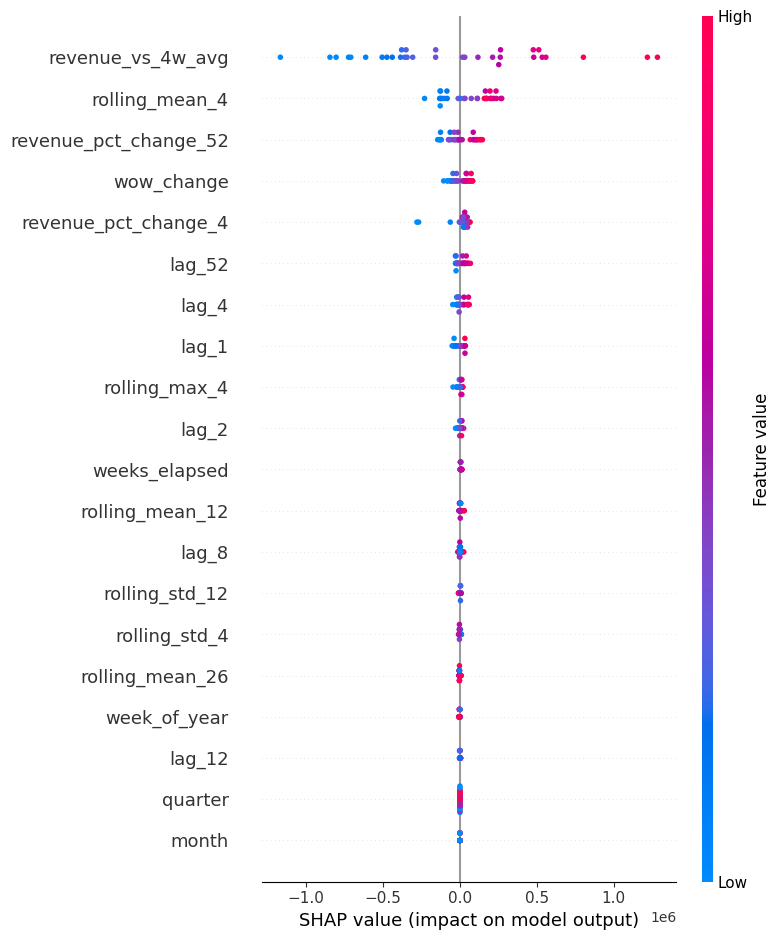
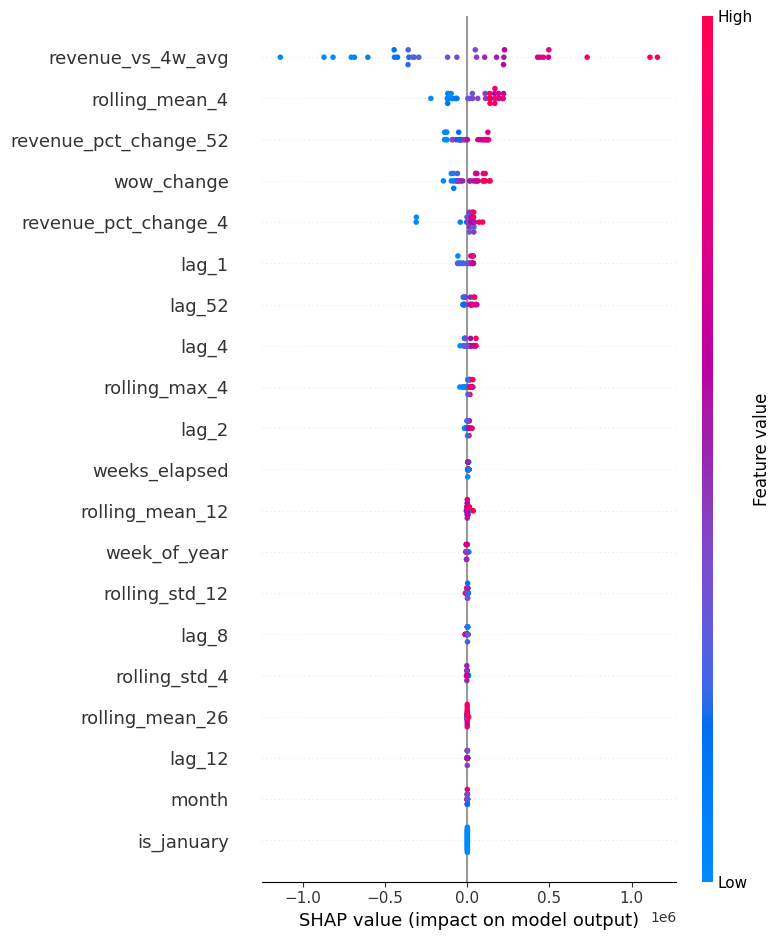
update code for the xgboost parameters

diff --git a/xgboost_model.py b/xgboost_model.py
@@ -12,12 +12,12 @@ df["week_start"] = pd.to_datetime(df["week_start"])
 
 #______defining feature columns and target__________
 feature_cols = ["lag_1", "lag_2", "lag_4", "lag_8", "lag_12", "lag_52",
-                 "rolling_mean_4", "rolling_mean_12", "rolling_mean_26",
-                 "rolling_std_4", "rolling_std_12", "rolling_max_4",
-                 "week_of_year", "month", "quarter", "is_month_end",
-                 "is_quarter_end", "is_december", "is_january",
-                 "weeks_elapsed", "wow_change", "revenue_vs_4w_avg",
-                 "revenue_pct_change_4", "revenue_pct_change_52"]
+                "rolling_mean_4", "rolling_mean_12", "rolling_mean_26",
+                "rolling_std_4", "rolling_std_12", "rolling_max_4",
+                "week_of_year", "month", "quarter", "is_month_end",
+                "is_quarter_end", "is_december", "is_january",
+                "weeks_elapsed", "wow_change", "revenue_vs_4w_avg",
+                "revenue_pct_change_4", "revenue_pct_change_52"]
 
 X = df[feature_cols]
 y = df["revenue"]
@@ -26,18 +26,18 @@ y = df["revenue"]
 train_size = int(len(df) * 0.8)
 
 X_train = X[:train_size]
-X_test = X[train_size:]
+X_test  = X[train_size:]
 y_train = y[:train_size]
-y_test = y[train_size:]
-y_test = y_test.reset_index(drop=True)
+y_test  = y[train_size:]
+y_test  = y_test.reset_index(drop=True)
 
 #______training XGBoost model with tuned parameters__________
 model = xgb.XGBRegressor(
-    n_estimators=575,
+    n_estimators=1000,
     max_depth=3,
-    learning_rate=0.03,
-    subsample=0.7,
-    colsample_bytree=0.9,
+    learning_rate=0.01,
+    subsample=0.9,
+    colsample_bytree=0.8,
     random_state=42
 )
 
@@ -47,11 +47,11 @@ model.fit(X_train, y_train)
 y_pred = model.predict(X_test)
 
 #______calculating evaluation metrics__________
-mae = mean_absolute_error(y_test, y_pred)
+mae  = mean_absolute_error(y_test, y_pred)
 rmse = np.sqrt(mean_squared_error(y_test, y_pred))
 mape = np.mean(np.abs((y_test.values - y_pred) / y_test.values)) * 100
 
-print(f"MAE: {mae:.2f}")
+print(f"MAE:  {mae:.2f}")
 print(f"RMSE: {rmse:.2f}")
 print(f"MAPE: {mape:.2f}%")
 
@@ -59,8 +59,8 @@ print(f"MAPE: {mape:.2f}%")
 test_dates = df["week_start"][train_size:].reset_index(drop=True)
 
 plt.figure(figsize=(12, 6))
-plt.plot(test_dates, y_test.values, label="Actual", color="black")
-plt.plot(test_dates, y_pred, label="XGBoost Forecast", color="blue")
+plt.plot(test_dates, y_test.values, label="Actual",           color="black")
+plt.plot(test_dates, y_pred,        label="XGBoost Forecast", color="blue")
 plt.legend()
 plt.title("XGBoost: Actual vs Predicted Revenue")
 plt.xlabel("Week")
@@ -69,10 +69,181 @@ plt.savefig("outputs/xgboost_forecast.png", bbox_inches="tight")
 plt.show()
 
 #______SHAP explainability__________
-explainer = shap.TreeExplainer(model)
+explainer   = shap.TreeExplainer(model)
 shap_values = explainer.shap_values(X_test)
 
 #______summary plot — overall feature importance__________
 shap.summary_plot(shap_values, X_test, show=False)
 plt.savefig("outputs/shap_summary.png", bbox_inches="tight")
+plt.show()
+
+#______future forecasting — recursive walk-forward__________
+
+#______load the full featured dataset__________
+full_df = pd.read_csv("data/featured_weekly_revenue.csv")
+full_df["week_start"] = pd.to_datetime(full_df["week_start"])
+
+#______keep last 52 weeks of real data as the seed window__________
+seed_window = full_df[["week_start", "revenue"]].tail(52).copy().reset_index(drop=True)
+
+#______how many weeks ahead to forecast__________
+WEEKS_AHEAD = 26  # 26 weeks = 6 months
+
+#______historical volatility — used to scale noise__________
+historical_std = full_df["revenue"].std()
+
+#______storage for both pure and noisy predictions__________
+pure_predictions  = []
+noisy_predictions = []
+future_dates      = []
+
+np.random.seed(42)
+
+#______recursive loop__________
+for week_num in range(1, WEEKS_AHEAD + 1):
+
+    rev = seed_window["revenue"].values
+
+    #______lag features__________
+    lag_1  = rev[-1]
+    lag_2  = rev[-2]
+    lag_4  = rev[-4]
+    lag_8  = rev[-8]
+    lag_12 = rev[-12]
+    lag_52 = rev[-52]
+
+    #______rolling statistics__________
+    rolling_mean_4  = rev[-4:].mean()
+    rolling_mean_12 = rev[-12:].mean()
+    rolling_mean_26 = rev[-26:].mean()
+    rolling_std_4   = rev[-4:].std()
+    rolling_std_12  = rev[-12:].std()
+    rolling_max_4   = rev[-4:].max()
+
+    #______next week's date__________
+    next_date = seed_window["week_start"].iloc[-1] + pd.Timedelta(weeks=1)
+
+    #______calendar features — always known in advance__________
+    week_of_year   = int(next_date.isocalendar().week)
+    month          = next_date.month
+    quarter        = (month - 1) // 3 + 1
+    is_month_end   = int(next_date.is_month_end)
+    is_december    = int(month == 12)
+    is_january     = int(month == 1)
+    weeks_elapsed  = len(full_df) + week_num
+
+    #______quarter end detection__________
+    prev_month     = seed_window["week_start"].iloc[-1].month
+    prev_quarter   = (prev_month - 1) // 3 + 1
+    is_quarter_end = int(quarter != prev_quarter)
+
+    #______trend features__________
+    wow_change            = (lag_1 - lag_2)  / lag_2  if lag_2  != 0 else 0
+    revenue_vs_4w_avg     = lag_1 / rolling_mean_4    if rolling_mean_4 != 0 else 1
+    revenue_pct_change_4  = (lag_1 - lag_4)  / lag_4  if lag_4  != 0 else 0
+    revenue_pct_change_52 = (lag_1 - lag_52) / lag_52 if lag_52 != 0 else 0
+
+    #______assemble feature row__________
+    future_row = pd.DataFrame([{
+        "lag_1":                  lag_1,
+        "lag_2":                  lag_2,
+        "lag_4":                  lag_4,
+        "lag_8":                  lag_8,
+        "lag_12":                 lag_12,
+        "lag_52":                 lag_52,
+        "rolling_mean_4":         rolling_mean_4,
+        "rolling_mean_12":        rolling_mean_12,
+        "rolling_mean_26":        rolling_mean_26,
+        "rolling_std_4":          rolling_std_4,
+        "rolling_std_12":         rolling_std_12,
+        "rolling_max_4":          rolling_max_4,
+        "week_of_year":           week_of_year,
+        "month":                  month,
+        "quarter":                quarter,
+        "is_month_end":           is_month_end,
+        "is_quarter_end":         is_quarter_end,
+        "is_december":            is_december,
+        "is_january":             is_january,
+        "weeks_elapsed":          weeks_elapsed,
+        "wow_change":             wow_change,
+        "revenue_vs_4w_avg":      revenue_vs_4w_avg,
+        "revenue_pct_change_4":   revenue_pct_change_4,
+        "revenue_pct_change_52":  revenue_pct_change_52
+    }])
+
+    #______pure prediction — what the model thinks without noise__________
+    predicted_revenue = model.predict(future_row)[0]
+    predicted_revenue = max(predicted_revenue, 0)
+
+    #______noisy prediction — adds realistic week-to-week variation__________
+    noise = np.random.normal(loc=0, scale=historical_std * 0.15)
+    predicted_revenue_noisy = max(predicted_revenue + noise, 0)
+
+    #______store both versions__________
+    pure_predictions.append(predicted_revenue)
+    noisy_predictions.append(predicted_revenue_noisy)
+    future_dates.append(next_date)
+
+    #______feed noisy version back for next iteration__________
+    # noisy version makes lag_1 next week behave like real data
+    new_row     = pd.DataFrame([{"week_start": next_date, "revenue": predicted_revenue_noisy}])
+    seed_window = pd.concat([seed_window, new_row], ignore_index=True)
+
+#______build results dataframe__________
+future_df = pd.DataFrame({
+    "week_start":       future_dates,
+    "pure_forecast":    pure_predictions,
+    "noisy_forecast":   noisy_predictions
+})
+
+print("\nWeekly future predictions:")
+print(future_df.to_string(index=False))
+
+#______aggregate to monthly using noisy forecast__________
+future_df["month"]       = future_df["week_start"].dt.to_period("M")
+monthly_forecast         = future_df.groupby("month")["noisy_forecast"].sum().reset_index()
+monthly_forecast.columns = ["month", "predicted_monthly_revenue"]
+monthly_forecast["predicted_monthly_revenue"] = monthly_forecast["predicted_monthly_revenue"].round(2)
+
+print("\nMonthly forecast (next 6 months):")
+print(monthly_forecast.to_string(index=False))
+
+#______plot 1 — weekly forecast showing both pure trend and noisy line__________
+plt.figure(figsize=(14, 5))
+
+real_tail = full_df[["week_start", "revenue"]].tail(52)
+plt.plot(real_tail["week_start"], real_tail["revenue"],
+         color="black", label="Real (last 52 weeks)")
+
+plt.plot(future_df["week_start"], future_df["noisy_forecast"],
+         color="cornflowerblue", linestyle="-",
+         alpha=0.7, label="Simulated weekly forecast")
+
+plt.plot(future_df["week_start"], future_df["pure_forecast"],
+         color="blue", linestyle="--",
+         linewidth=2, label="Trend forecast")
+
+split_date = full_df["week_start"].iloc[-1]
+plt.axvline(x=split_date, color="red", linestyle=":",
+            linewidth=1.5, label="Forecast start")
+
+plt.title("XGBoost — 6 Month Weekly Revenue Forecast")
+plt.xlabel("Week")
+plt.ylabel("Revenue")
+plt.legend()
+plt.tight_layout()
+plt.savefig("outputs/future_weekly_forecast.png", bbox_inches="tight")
+plt.show()
+
+#______plot 2 — monthly bar chart__________
+plt.figure(figsize=(10, 5))
+plt.bar(monthly_forecast["month"].astype(str),
+        monthly_forecast["predicted_monthly_revenue"],
+        color="steelblue", edgecolor="white")
+
+plt.title("XGBoost — Monthly Revenue Forecast (Next 6 Months)")
+plt.xlabel("Month")
+plt.ylabel("Predicted Revenue")
+plt.tight_layout()
+plt.savefig("outputs/future_monthly_forecast.png", bbox_inches="tight")
 plt.show()

diff --git a/xgboost_parametres_tuning.py b/xgboost_parametres_tuning.py
@@ -21,7 +21,18 @@ feature_cols = ["lag_1", "lag_2", "lag_4", "lag_8", "lag_12", "lag_52",
 X = df[feature_cols]
 y = df["revenue"]
 
-#______STEP 1: grid search for structural parameters__________
+#______STEP 0: carve out the final test set FIRST — nothing below this line
+#______touches X_test/y_test until the very last evaluation__________
+test_size = int(len(df) * 0.20)
+train_pool_size = len(df) - test_size
+
+X_pool, X_test = X[:train_pool_size], X[train_pool_size:]
+y_pool, y_test = y[:train_pool_size], y[train_pool_size:]
+y_test = y_test.reset_index(drop=True)
+
+print(f"Train+val pool: {len(X_pool)} rows  |  Held-out test: {len(X_test)} rows (never touched until the end)")
+
+#______STEP 1: grid search for structural parameters, using ONLY the pool__________
 param_grid = {
     "learning_rate": [0.01, 0.03, 0.05, 0.1],
     "max_depth": [3, 4, 5],
@@ -38,8 +49,8 @@ base_model = xgb.XGBRegressor(
     eval_metric="mae"
 )
 
-print("="*60)
-print("STEP 1: Searching for best structural parameters...")
+print("\n" + "="*60)
+print("STEP 1: Searching for best structural parameters (on pool only)...")
 print("="*60)
 
 grid_search = GridSearchCV(
@@ -50,29 +61,26 @@ grid_search = GridSearchCV(
     n_jobs=-1,
     verbose=1
 )
-grid_search.fit(X, y)
+grid_search.fit(X_pool, y_pool)
 
 best_params = grid_search.best_params_
 
 print("\nBest structural parameters found:")
 print(best_params)
-print(f"Best cross-validated MAPE: {-grid_search.best_score_*100:.2f}%")
+print(f"Best cross-validated MAPE (pool only): {-grid_search.best_score_*100:.2f}%")
 
-results_df = pd.DataFrame(grid_search.cv_results_)
-results_df["mean_test_mape"] = -results_df["mean_test_score"] * 100
-top5 = results_df.sort_values("mean_test_mape").head(5)
-print("\nTop 5 parameter combinations (for reference):")
-print(top5[["params", "mean_test_mape"]].to_string(index=False))
-
+#______STEP 2: early stopping, using a slice of the POOL — still never touches X_test__________
 print("\n" + "="*60)
-print("STEP 2: Finding optimal n_estimators with early stopping...")
+print("STEP 2: Finding optimal n_estimators with early stopping (within pool)...")
 print("="*60)
 
-split_point = int(len(X) * 0.85)
-X_train_es = X[:split_point]
-X_val_es = X[split_point:]
-y_train_es = y[:split_point]
-y_val_es = y[split_point:]
+es_split_point = int(len(X_pool) * 0.85)
+X_train_es = X_pool[:es_split_point]
+X_val_es = X_pool[es_split_point:]
+y_train_es = y_pool[:es_split_point]
+y_val_es = y_pool[es_split_point:]
+
+print(f"Early-stopping train: {len(X_train_es)} rows | val: {len(X_val_es)} rows (both inside the pool, test untouched)")
 
 final_model = xgb.XGBRegressor(
     n_estimators=1000,
@@ -91,10 +99,31 @@ final_model.fit(
     verbose=False
 )
 
-optimal_n_estimators = final_model.best_iteration
+#______FIX: best_iteration is 0-indexed, so the tree count is +1__________
+optimal_n_estimators = final_model.best_iteration + 1
 
-print(f"\nOptimal number of trees: {optimal_n_estimators}")
+print(f"\nOptimal number of trees: {optimal_n_estimators} (best_iteration={final_model.best_iteration} + 1)")
 print(f"Validation MAE at that point: {final_model.best_score:.2f}")
+
+#______STEP 3: refit on the FULL pool with final params, then score ONCE on the
+#______untouched test set — this is the only honest, unbiased number__________
+print("\n" + "="*60)
+print("STEP 3: Refitting on full pool, scoring once on held-out test...")
+print("="*60)
+
+production_model = xgb.XGBRegressor(
+    n_estimators=optimal_n_estimators,
+    learning_rate=best_params["learning_rate"],
+    max_depth=best_params["max_depth"],
+    subsample=best_params["subsample"],
+    colsample_bytree=best_params["colsample_bytree"],
+    random_state=42
+)
+production_model.fit(X_pool, y_pool)
+
+y_pred = production_model.predict(X_test)
+final_mape = np.mean(np.abs((y_test.values - y_pred) / y_test.values)) * 100
+print(f"\nFinal, never-touched-before MAPE on the true test set: {final_mape:.2f}%")
 
 print("\n" + "="*60)
 print("FINAL RECOMMENDED XGBOOST CONFIGURATION")